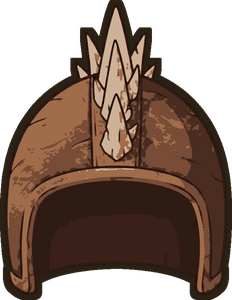
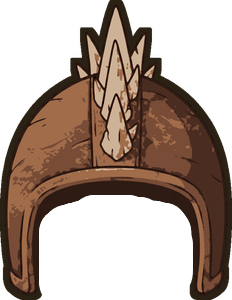
eggwar v2.38 — 태현님 지우개 편집 투구 6종 반영(내부 개구부 투명화)
Claude-Session: https://claude.ai/code/session_016Knotu6mMMMg8S1HEFVpTR

Changed region(s): [[0.1509, 0.63, 0.8448, 0.99]]

diff --git a/eggwar/index.html b/eggwar/index.html
@@ -17,24 +17,24 @@
 <meta property="og:title" content="계란들의 전쟁 — 계란 부족 비대칭 실시간 대전">
 <meta property="og:description" content="계란 전사들의 전쟁. 진형을 짜는 사람과 영웅을 모는 사람이 같은 판에서 싸운다.">
 <meta property="og:type" content="website">
-<link rel="stylesheet" href="css/style.css?v=2.37">
+<link rel="stylesheet" href="css/style.css?v=2.38">
 
 <!-- 설치(PWA). 홈 화면에서 열면 주소창이 사라져 뷰포트가 흔들리지 않는다 —
      기종별 레이아웃 사고의 원인을 제거하는 것이 목적이다.
      viewport-fit=cover 는 일부러 넣지 않는다: 노치 아래로 캔버스가 파고들면
      letterbox 계산이 또 어긋난다. standalone 만으로 주소창 문제는 해결된다. -->
-<link rel="manifest" href="manifest.json?v=2.37">
+<link rel="manifest" href="manifest.json?v=2.38">
 <meta name="theme-color" content="#123f96">
 <meta name="mobile-web-app-capable" content="yes">
 <meta name="apple-mobile-web-app-capable" content="yes">
 <meta name="apple-mobile-web-app-title" content="계란들의 전쟁">
 <meta name="apple-mobile-web-app-status-bar-style" content="default">
-<link rel="apple-touch-icon" href="icons/apple-touch-icon.png?v=2.37">
-<link rel="icon" type="image/png" sizes="192x192" href="icons/icon-192.png?v=2.37">
+<link rel="apple-touch-icon" href="icons/apple-touch-icon.png?v=2.38">
+<link rel="icon" type="image/png" sizes="192x192" href="icons/icon-192.png?v=2.38">
 </head>
 <body>
 <div id="game"></div>
-<div id="ver">v2.37</div>
+<div id="ver">v2.38</div>
 <div id="rotate">
   <div>
     <div id="rotate-icon">📱</div>
@@ -59,111 +59,111 @@
         crossorigin="anonymous" referrerpolicy="no-referrer"></script>
 <!-- Phaser 의 타원 그리기가 호출마다 만들던 쓰레기를 없앤다(2026-08-05).
      ⚠ Phaser **바로 뒤**여야 한다 — 프로토타입을 갈아끼우므로 어떤 씬보다 먼저 돌아야 한다. -->
-<script src="js/gfxpool.js?v=2.37"></script>
+<script src="js/gfxpool.js?v=2.38"></script>
 <!-- 세로에서 게임을 90도 눕혀 가로로 — 잠금 API 없는 기기의 정답(js/rot90.js 주석) -->
-<script src="js/rot90.js?v=2.37"></script>
-<script src="js/config.js?v=2.37"></script>
-<script src="js/store.js?v=2.37"></script>
-<script src="js/pwa.js?v=2.37"></script>
-<script src="js/sound.js?v=2.37"></script>
-<script src="js/music.js?v=2.37"></script>
-<script src="js/api.js?v=2.37"></script>
-<script src="js/account.js?v=2.37"></script>
-<script src="js/score.js?v=2.37"></script>
-<script src="js/iso.js?v=2.37"></script>
-<script src="js/layout.js?v=2.37"></script>
-<script src="js/learn.js?v=2.37"></script>
-<script src="js/profile.js?v=2.37"></script>
-<script src="js/autoformation.js?v=2.37"></script>
-<script src="js/tower.js?v=2.37"></script>
-<script src="js/towerlearn.js?v=2.37"></script>
-<script src="js/defendtower.js?v=2.37"></script>
-<script src="js/towerrun.js?v=2.37"></script>
+<script src="js/rot90.js?v=2.38"></script>
+<script src="js/config.js?v=2.38"></script>
+<script src="js/store.js?v=2.38"></script>
+<script src="js/pwa.js?v=2.38"></script>
+<script src="js/sound.js?v=2.38"></script>
+<script src="js/music.js?v=2.38"></script>
+<script src="js/api.js?v=2.38"></script>
+<script src="js/account.js?v=2.38"></script>
+<script src="js/score.js?v=2.38"></script>
+<script src="js/iso.js?v=2.38"></script>
+<script src="js/layout.js?v=2.38"></script>
+<script src="js/learn.js?v=2.38"></script>
+<script src="js/profile.js?v=2.38"></script>
+<script src="js/autoformation.js?v=2.38"></script>
+<script src="js/tower.js?v=2.38"></script>
+<script src="js/towerlearn.js?v=2.38"></script>
+<script src="js/defendtower.js?v=2.38"></script>
+<script src="js/towerrun.js?v=2.38"></script>
 <!-- 영구 캐릭터(2026-08-01) — 탑이 더는 towerrun.js 의 도전(run) 개념을 안 쓴다.
      towerrun.js 는 대전(arenabuild.js)이 가격표를 빌려 쓰므로 그대로 둔다. -->
-<script src="js/towerchar.js?v=2.37"></script>
-<script src="js/droppopup.js?v=2.37"></script>
-<script src="js/towershopitems.js?v=2.37"></script>
+<script src="js/towerchar.js?v=2.38"></script>
+<script src="js/droppopup.js?v=2.38"></script>
+<script src="js/towershopitems.js?v=2.38"></script>
 <!-- 통곡의 탑 대개편 — 층 배치 원형 / 층 조건.
      towerrun.js 뒤에 둔다: 둘 다 `TowerRun.get().seed` 를 읽어 원형·조건을 정한다. -->
-<script src="js/towercurriculum.js?v=2.37"></script>
-<script src="js/towerplan.js?v=2.37"></script>
-<script src="js/towerrule.js?v=2.37"></script>
+<script src="js/towercurriculum.js?v=2.38"></script>
+<script src="js/towerplan.js?v=2.38"></script>
+<script src="js/towerrule.js?v=2.38"></script>
 <!-- 대개편 2단계 — 구슬 효과표(내 쪽 행동) / 층 목표(이기는 길).
      두 갈래 문은 제거했다(2026-07-31). towerboon.js 는 이제 **효과 정의만** 담당하고,
      얻는 방법은 js/orb.js 가 쥔다. towerobjective 는 순서 자유이나 함께 둔다. -->
-<script src="js/towerboon.js?v=2.37"></script>
-<script src="js/towerobjective.js?v=2.37"></script>
-<script src="js/unitlevel.js?v=2.37"></script>
-<script src="js/arena.js?v=2.37"></script>
-<script src="js/rtscore.js?v=2.37"></script>
-<script src="js/arenabuild.js?v=2.37"></script>
-<script src="js/units.js?v=2.37"></script>
-<script src="js/heroes.js?v=2.37"></script>
-<script src="js/items.js?v=2.37"></script>
-<script src="js/formations.js?v=2.37"></script>
+<script src="js/towerboon.js?v=2.38"></script>
+<script src="js/towerobjective.js?v=2.38"></script>
+<script src="js/unitlevel.js?v=2.38"></script>
+<script src="js/arena.js?v=2.38"></script>
+<script src="js/rtscore.js?v=2.38"></script>
+<script src="js/arenabuild.js?v=2.38"></script>
+<script src="js/units.js?v=2.38"></script>
+<script src="js/heroes.js?v=2.38"></script>
+<script src="js/items.js?v=2.38"></script>
+<script src="js/formations.js?v=2.38"></script>
 <!-- 실시간 대전 통신층(P3) — BASE 가 살아 있으면 켜진다. 호출부는 versus 계열 씬. -->
-<script src="js/netroom.js?v=2.37"></script>
-<script src="js/netrtc.js?v=2.37"></script>
-<script src="js/lockstep.js?v=2.37"></script>
-<script src="js/detmath.js?v=2.37"></script>
-<script src="js/combat.js?v=2.37"></script>
-<script src="js/input.js?v=2.37"></script>
-<script src="js/touchpad.js?v=2.37"></script>
-<script src="js/aihero.js?v=2.37"></script>
-<script src="js/ui.js?v=2.37"></script>
-<script src="js/ui-theme.js?v=2.37"></script>
-<script src="js/ui-hud.js?v=2.37"></script>
-<script src="js/theme-a.js?v=2.37"></script>
-<script src="js/theme-b.js?v=2.37"></script>
-<script src="js/theme-c.js?v=2.37"></script>
-<script src="js/theme-switch.js?v=2.37"></script>
-<script src="js/modal.js?v=2.37"></script>
-<script src="js/eggart.js?v=2.37"></script>
-<script src="js/lobbyart.js?v=2.37"></script>
-<script src="js/tutorial.js?v=2.37"></script>
-<script src="js/bossbank.js?v=2.37"></script>
-<script src="js/gearbank.js?v=2.37"></script>
-<script src="js/bossart.js?v=2.37"></script>
-<script src="js/dragonasset.js?v=2.37"></script>
-<script src="js/itemart.js?v=2.37"></script>
-<script src="js/coin.js?v=2.37"></script>
+<script src="js/netroom.js?v=2.38"></script>
+<script src="js/netrtc.js?v=2.38"></script>
+<script src="js/lockstep.js?v=2.38"></script>
+<script src="js/detmath.js?v=2.38"></script>
+<script src="js/combat.js?v=2.38"></script>
+<script src="js/input.js?v=2.38"></script>
+<script src="js/touchpad.js?v=2.38"></script>
+<script src="js/aihero.js?v=2.38"></script>
+<script src="js/ui.js?v=2.38"></script>
+<script src="js/ui-theme.js?v=2.38"></script>
+<script src="js/ui-hud.js?v=2.38"></script>
+<script src="js/theme-a.js?v=2.38"></script>
+<script src="js/theme-b.js?v=2.38"></script>
+<script src="js/theme-c.js?v=2.38"></script>
+<script src="js/theme-switch.js?v=2.38"></script>
+<script src="js/modal.js?v=2.38"></script>
+<script src="js/eggart.js?v=2.38"></script>
+<script src="js/lobbyart.js?v=2.38"></script>
+<script src="js/tutorial.js?v=2.38"></script>
+<script src="js/bossbank.js?v=2.38"></script>
+<script src="js/gearbank.js?v=2.38"></script>
+<script src="js/bossart.js?v=2.38"></script>
+<script src="js/dragonasset.js?v=2.38"></script>
+<script src="js/itemart.js?v=2.38"></script>
+<script src="js/coin.js?v=2.38"></script>
 <!-- 구슬 — 적을 잡으면 확률로 떨어지는 능력 구슬. coin.js 와 같은 문법이라 뒤에 둔다. -->
-<script src="js/orb.js?v=2.37"></script>
+<script src="js/orb.js?v=2.38"></script>
 <!-- 치유 구역(2026-08-01) — 물약을 대신한다. orb.js 와 같은 문법. -->
-<script src="js/healzone.js?v=2.37"></script>
+<script src="js/healzone.js?v=2.38"></script>
 <!-- 타격 파티클(2026-08-04) — 텍스처를 런타임에 구워 자산 0KB 를 지킨다. -->
-<script src="js/hitfx.js?v=2.37"></script>
-<script src="js/skillfx.js?v=2.37"></script>
-<script src="js/scenes/loading.js?v=2.37"></script>
-<script src="js/scenes/login.js?v=2.37"></script>
-<script src="js/scenes/menu.js?v=2.37"></script>
-<script src="js/scenes/select.js?v=2.37"></script>
-<script src="js/scenes/build.js?v=2.37"></script>
-<script src="js/scenes/draft.js?v=2.37"></script>
-<script src="js/scenes/draft-mobile.js?v=2.37"></script>
-<script src="js/scenes/battle.js?v=2.37"></script>
-<script src="js/scenes/defend.js?v=2.37"></script>
-<script src="js/scenes/defend-tower.js?v=2.37"></script>
-<script src="js/scenes/versus.js?v=2.37"></script>
-<script src="js/scenes/rtlobby.js?v=2.37"></script>
-<script src="js/scenes/result.js?v=2.37"></script>
+<script src="js/hitfx.js?v=2.38"></script>
+<script src="js/skillfx.js?v=2.38"></script>
+<script src="js/scenes/loading.js?v=2.38"></script>
+<script src="js/scenes/login.js?v=2.38"></script>
+<script src="js/scenes/menu.js?v=2.38"></script>
+<script src="js/scenes/select.js?v=2.38"></script>
+<script src="js/scenes/build.js?v=2.38"></script>
+<script src="js/scenes/draft.js?v=2.38"></script>
+<script src="js/scenes/draft-mobile.js?v=2.38"></script>
+<script src="js/scenes/battle.js?v=2.38"></script>
+<script src="js/scenes/defend.js?v=2.38"></script>
+<script src="js/scenes/defend-tower.js?v=2.38"></script>
+<script src="js/scenes/versus.js?v=2.38"></script>
+<script src="js/scenes/rtlobby.js?v=2.38"></script>
+<script src="js/scenes/result.js?v=2.38"></script>
 <!-- 이어하기(2026-08-05) — 계정이 없어 캐릭터가 기기에 갇히는 구멍을 메운다.
      Store/Account 뒤, 씬보다 앞. -->
 <!-- 닉네임+PIN(2026-08-05). ⚠ 서버(/auth/*)가 아직 없을 수 있다 —
      js/auth.js 가 404 를 만나면 예전처럼 PIN 없이 동작한다. -->
-<script src="js/auth.js?v=2.37"></script>
-<script src="js/pinui.js?v=2.37"></script>
-<script src="js/transfer.js?v=2.37"></script>
-<script src="js/transferui.js?v=2.37"></script>
-<script src="js/scenes/tower.js?v=2.37"></script>
+<script src="js/auth.js?v=2.38"></script>
+<script src="js/pinui.js?v=2.38"></script>
+<script src="js/transfer.js?v=2.38"></script>
+<script src="js/transferui.js?v=2.38"></script>
+<script src="js/scenes/tower.js?v=2.38"></script>
 <!-- 영구 캐릭터 대개편(2026-08-01) — 상점(아이템/스킬/능력치 탭) + 도전 진입 로딩. -->
-<script src="js/scenes/towershop.js?v=2.37"></script>
-<script src="js/scenes/towerloading.js?v=2.37"></script>
-<script src="js/onboard.js?v=2.37"></script>
-<script src="js/scenes/rank.js?v=2.37"></script>
-<script src="js/scenes/fitscene.js?v=2.37"></script>
-<script src="js/scenes/admin.js?v=2.37"></script>
-<script src="js/main.js?v=2.37"></script>
+<script src="js/scenes/towershop.js?v=2.38"></script>
+<script src="js/scenes/towerloading.js?v=2.38"></script>
+<script src="js/onboard.js?v=2.38"></script>
+<script src="js/scenes/rank.js?v=2.38"></script>
+<script src="js/scenes/fitscene.js?v=2.38"></script>
+<script src="js/scenes/admin.js?v=2.38"></script>
+<script src="js/main.js?v=2.38"></script>
 </body>
 </html>

diff --git a/eggwar/js/gearbank.js b/eggwar/js/gearbank.js
@@ -45,17 +45,17 @@
     furimg:      { src: 'assets/gear/furimg.png?v=2.30' },
     packimg:     { src: 'assets/gear/packimg.png?v=2.30' },
     //  영웅 투구 3종 (2026-08-21 시트 1차분 — 정면 단독컷)
-    helmVanguard: { src: 'assets/helm/vanguard2.png?v=2.36' },
-    helmPot:    { src: 'assets/helm/pot.png?v=2.36' },
-    helmBand:   { src: 'assets/helm/band.png?v=2.36' },
-    helmCap:    { src: 'assets/helm/cap.png?v=2.36' },
-    helmHood:   { src: 'assets/helm/hood.png?v=2.36' },
-    helmLeaf:   { src: 'assets/helm/leaf.png?v=2.36' },
-    helmBucket: { src: 'assets/helm/bucket.png?v=2.36' },
-    helmHorns:  { src: 'assets/helm/horns.png?v=2.36' },
-    helmSedge:  { src: 'assets/helm/sedge.png?v=2.36' },
-    helmPot2:   { src: 'assets/helm/pot2.png?v=2.36' },
-    helmRanger:   { src: 'assets/helm/ranger.png?v=2.36' },
+    helmVanguard: { src: 'assets/helm/vanguard2.png?v=2.38' },
+    helmPot:    { src: 'assets/helm/pot.png?v=2.38' },
+    helmBand:   { src: 'assets/helm/band.png?v=2.38' },
+    helmCap:    { src: 'assets/helm/cap.png?v=2.38' },
+    helmHood:   { src: 'assets/helm/hood.png?v=2.38' },
+    helmLeaf:   { src: 'assets/helm/leaf.png?v=2.38' },
+    helmBucket: { src: 'assets/helm/bucket.png?v=2.38' },
+    helmHorns:  { src: 'assets/helm/horns.png?v=2.38' },
+    helmSedge:  { src: 'assets/helm/sedge.png?v=2.38' },
+    helmPot2:   { src: 'assets/helm/pot2.png?v=2.38' },
+    helmRanger:   { src: 'assets/helm/ranger.png?v=2.38' },
     helmWarden:   { src: 'assets/helm/warden.png?v=2.29' },
     //  이펙트 (흰색 원본 — 코드가 틴트·블렌드로 색을 입힌다)
     flame:       { src: 'assets/fx/flame.png?v=2.27' },

diff --git a/eggwar/js/main.js b/eggwar/js/main.js
@@ -1,6 +1,6 @@
 window.GAME = window.GAME || {};
 
-GAME.VERSION = 'v2.37';
+GAME.VERSION = 'v2.38';
 
 // 주소에 ?admin=1 을 붙이면 닉네임 관리 화면에 들어갈 수 있다
 GAME.isAdmin = /[?&]admin=1/.test(location.search || '');
